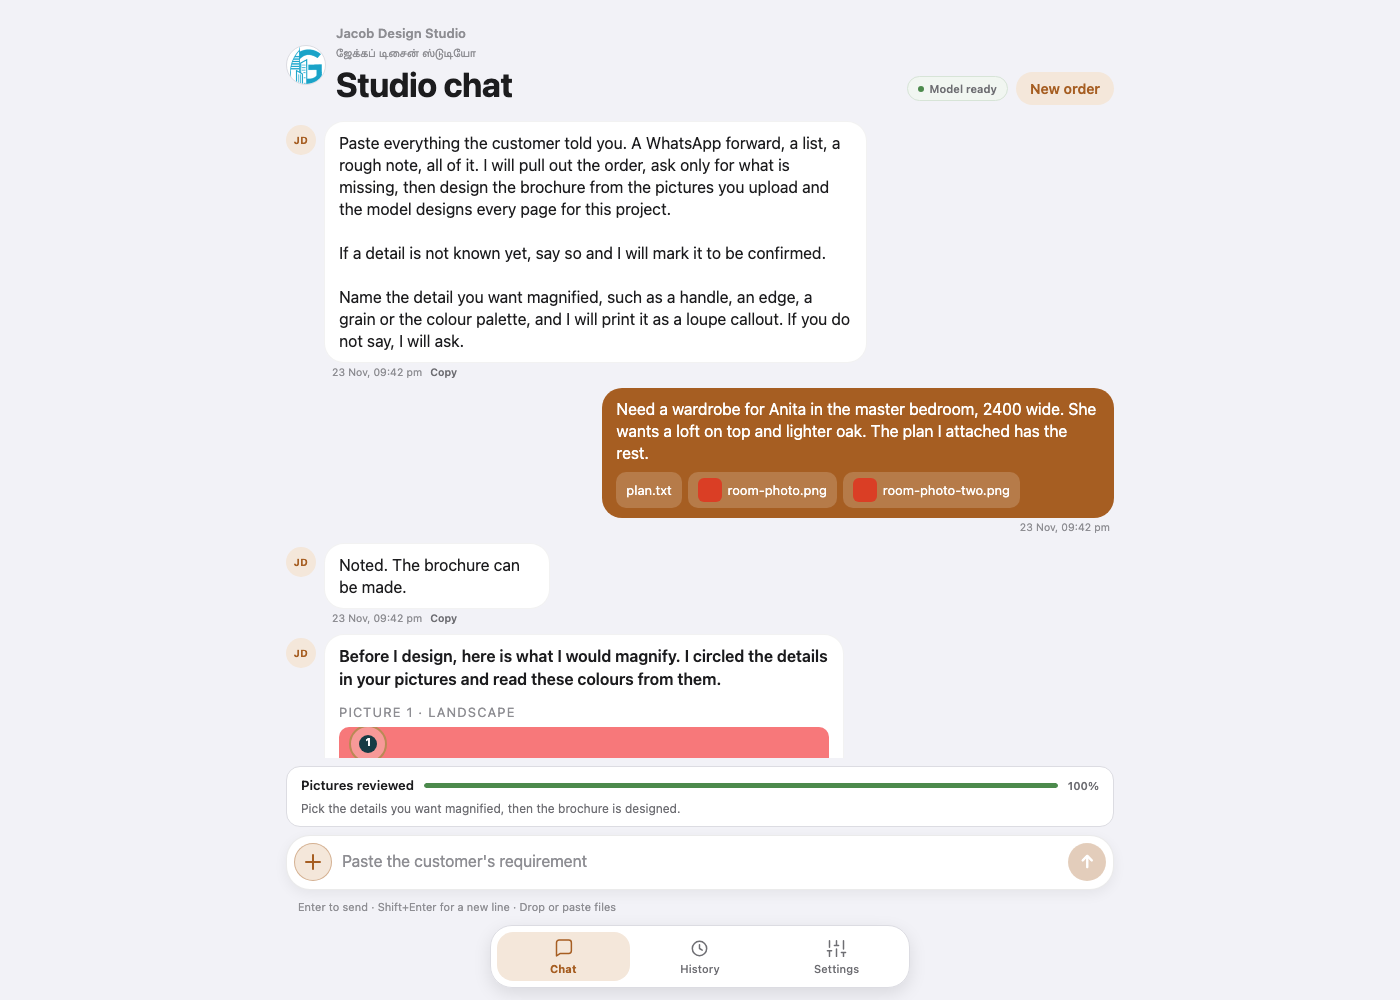
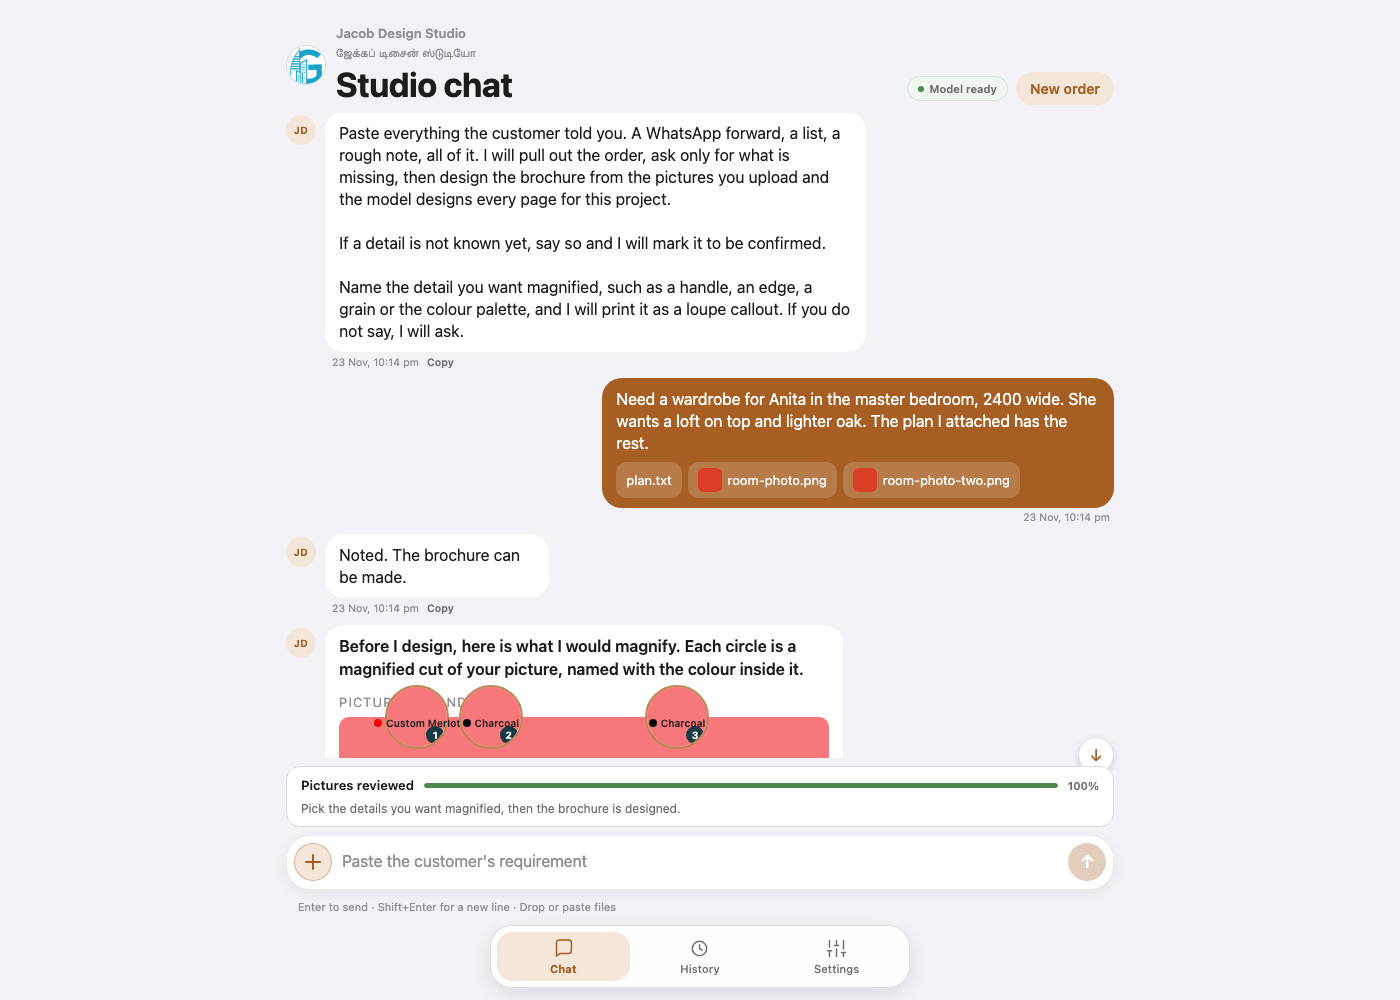
Magnified circles name the colour inside them

Changed region(s): [[0.1843, 0.124, 0.6143, 0.372], [0.1843, 0.527, 0.5836, 0.775], [0.43, 0.372, 0.7986, 0.527]]

diff --git a/app/app/(tabs)/index.tsx b/app/app/(tabs)/index.tsx
@@ -722,7 +722,7 @@ export default function ChatScreen() {
                   role: 'assistant' as const,
                   kind: 'review' as const,
                   content:
-                    'Before I design, here is what I would magnify. I circled the details in your pictures and read these colours from them.',
+                    'Before I design, here is what I would magnify. Each circle is a magnified cut of your picture, named with the colour inside it.',
                   at: stamp(),
                   photos: review.photos,
                 },
@@ -795,7 +795,7 @@ export default function ChatScreen() {
                   role: 'assistant' as const,
                   kind: 'review' as const,
                   content:
-                    'Before I design, here is what I would magnify. I circled the details in your pictures and read these colours from them.',
+                    'Before I design, here is what I would magnify. Each circle is a magnified cut of your picture, named with the colour inside it.',
                   at: stamp(),
                   photos: review.photos,
                 },
@@ -1202,6 +1202,102 @@ export default function ChatScreen() {
   );
 }
 
+function ReviewPhotoCard({ photo, index }: { photo: ReviewPhoto; index: number }) {
+  const [frame, setFrame] = useState({ width: 0, height: 0 });
+  const LOUPE = 64;
+  const ZOOM = 3.2;
+  const zoomWidth = frame.width * ZOOM;
+  const zoomHeight = frame.height * ZOOM;
+  const ready = frame.width > 0 && frame.height > 0;
+  return (
+    <View style={styles.reviewPhoto}>
+      <Text style={[text.caption, styles.reviewPhotoLabel]}>
+        {`Picture ${index + 1} · ${photo.analysis.orientation}`}
+      </Text>
+      <View
+        style={styles.reviewFrameBox}
+        onLayout={(event) => setFrame(event.nativeEvent.layout)}>
+        <View style={styles.reviewFrame}>
+          <Image
+            source={{ uri: fileUrl(photo.url) }}
+            style={styles.reviewImage}
+            resizeMode="cover"
+            accessibilityLabel={`Review picture ${index + 1}`}
+          />
+        </View>
+        {ready
+          ? photo.analysis.candidates.map((candidate, candidateIndex) => {
+              // Keep the loupe and its label inside the picture frame.
+              const cx = Math.min(84, Math.max(16, candidate.x));
+              const cy = Math.min(76, Math.max(16, candidate.y));
+              const labelTop = Math.min(cy + ((LOUPE + 8) / frame.height) * 100, 94);
+              return (
+                <View key={candidate.id}>
+                  <View
+                    testID={`review-loupe-${candidateIndex + 1}`}
+                    accessibilityLabel={`Magnify detail ${candidateIndex + 1} ${candidate.name}`}
+                    style={[
+                      styles.reviewLoupe,
+                      {
+                        width: LOUPE,
+                        height: LOUPE,
+                        marginLeft: -LOUPE / 2,
+                        marginTop: -LOUPE / 2,
+                        left: `${cx}%`,
+                        top: `${cy}%`,
+                      },
+                    ]}>
+                    <Image
+                      source={{ uri: fileUrl(photo.url) }}
+                      style={{
+                        position: 'absolute',
+                        width: zoomWidth,
+                        height: zoomHeight,
+                        left: LOUPE / 2 - (cx / 100) * zoomWidth,
+                        top: LOUPE / 2 - (cy / 100) * zoomHeight,
+                      }}
+                      resizeMode="cover"
+                    />
+                    <View style={styles.reviewLoupeNumber}>
+                      <Text style={styles.reviewLoupeNumberLabel}>{candidateIndex + 1}</Text>
+                    </View>
+                  </View>
+                  <View
+                    style={[
+                      styles.reviewLoupeLabel,
+                      { left: `${cx}%`, top: `${labelTop}%` },
+                    ]}>
+                    <View style={[styles.reviewLoupeDot, { backgroundColor: candidate.hex }]} />
+                    <Text style={styles.reviewLoupeName} numberOfLines={1}>
+                      {candidate.name}
+                    </Text>
+                  </View>
+                </View>
+              );
+            })
+          : null}
+      </View>
+      {photo.analysis.candidates.length > 0 ? (
+        <Text style={[text.caption, styles.reviewMagnifiedLine]}>
+          {`Magnified details: ${photo.analysis.candidates
+            .map((candidate, candidateIndex) => `${candidateIndex + 1} ${candidate.name}`)
+            .join(' · ')}`}
+        </Text>
+      ) : null}
+      <View style={styles.reviewPalette}>
+        {photo.analysis.palette.map((swatch) => (
+          <View key={swatch.hex} style={styles.reviewSwatch}>
+            <View style={[styles.reviewChip, { backgroundColor: swatch.hex }]} />
+            <Text style={[text.caption, styles.reviewChipName]} numberOfLines={1}>
+              {swatch.name}
+            </Text>
+          </View>
+        ))}
+      </View>
+    </View>
+  );
+}
+
 function BubbleView({
   bubble,
   copied,
@@ -1221,40 +1317,7 @@ function BubbleView({
           <View style={[styles.bubble, styles.bubbleAssistant, styles.reviewBubble]}>
             <Text style={[text.body, styles.reviewTitle]}>{bubble.content}</Text>
             {bubble.photos.map((photo, photoIndex) => (
-              <View key={photo.url} style={styles.reviewPhoto}>
-                <Text style={[text.caption, styles.reviewPhotoLabel]}>
-                  {`Picture ${photoIndex + 1} · ${photo.analysis.orientation}`}
-                </Text>
-                <View style={styles.reviewFrame}>
-                  <Image
-                    source={{ uri: fileUrl(photo.url) }}
-                    style={styles.reviewImage}
-                    resizeMode="cover"
-                    accessibilityLabel={`Review picture ${photoIndex + 1}`}
-                  />
-                  {photo.analysis.candidates.map((candidate, index) => (
-                    <View
-                      key={candidate.id}
-                      style={[
-                        styles.reviewCircle,
-                        { left: `${candidate.x}%`, top: `${candidate.y}%` },
-                      ]}
-                      accessibilityLabel={`Magnify choice ${index + 1}`}>
-                      <Text style={styles.reviewCircleLabel}>{index + 1}</Text>
-                    </View>
-                  ))}
-                </View>
-                <View style={styles.reviewPalette}>
-                  {photo.analysis.palette.map((swatch) => (
-                    <View key={swatch.hex} style={styles.reviewSwatch}>
-                      <View style={[styles.reviewChip, { backgroundColor: swatch.hex }]} />
-                      <Text style={[text.caption, styles.reviewChipName]} numberOfLines={1}>
-                        {swatch.name}
-                      </Text>
-                    </View>
-                  ))}
-                </View>
-              </View>
+              <ReviewPhotoCard key={photo.url} photo={photo} index={photoIndex} />
             ))}
             <Text style={[text.caption, styles.reviewHint]}>
               Reply with the numbers you want magnified, name a detail, or say you choose.
@@ -2274,10 +2337,17 @@ const styles = StyleSheet.create({
     textTransform: 'uppercase',
     letterSpacing: 1.2,
   },
-  reviewFrame: {
+  reviewFrameBox: {
     position: 'relative',
     width: '100%',
     aspectRatio: 16 / 9,
+  },
+  reviewFrame: {
+    position: 'absolute',
+    left: 0,
+    top: 0,
+    right: 0,
+    bottom: 0,
     borderRadius: 10,
     overflow: 'hidden',
     backgroundColor: colors.fill,
@@ -2285,6 +2355,55 @@ const styles = StyleSheet.create({
   reviewImage: {
     width: '100%',
     height: '100%',
+  },
+  reviewLoupe: {
+    position: 'absolute',
+    borderRadius: 32,
+    overflow: 'hidden',
+    borderWidth: 2,
+    borderColor: '#B98A55',
+    backgroundColor: colors.fill,
+  },
+  reviewLoupeNumber: {
+    position: 'absolute',
+    right: 3,
+    bottom: 3,
+    width: 18,
+    height: 18,
+    borderRadius: 9,
+    backgroundColor: '#173B44',
+    alignItems: 'center',
+    justifyContent: 'center',
+  },
+  reviewLoupeNumberLabel: {
+    color: colors.surface,
+    fontSize: 10,
+    fontWeight: '700',
+  },
+  reviewLoupeLabel: {
+    position: 'absolute',
+    marginLeft: -48,
+    width: 96,
+    flexDirection: 'row',
+    alignItems: 'center',
+    justifyContent: 'center',
+    gap: 4,
+  },
+  reviewLoupeDot: {
+    width: 8,
+    height: 8,
+    borderRadius: 4,
+    borderWidth: StyleSheet.hairlineWidth,
+    borderColor: colors.hairInset,
+  },
+  reviewLoupeName: {
+    fontSize: 10,
+    color: colors.ink,
+    fontWeight: '600',
+  },
+  reviewMagnifiedLine: {
+    color: colors.ink,
+    letterSpacing: 0.4,
   },
   reviewCircle: {
     position: 'absolute',

diff --git a/app/lib/api.ts b/app/lib/api.ts
@@ -166,6 +166,9 @@ export interface ReviewCandidate {
   /** Circle centre as a percentage of the photograph. */
   x: number;
   y: number;
+  /** The colour inside the magnified area, named like a paint chip. */
+  hex: string;
+  name: string;
 }
 
 export interface ReviewPhoto {

diff --git a/README.md b/README.md
@@ -27,7 +27,7 @@ The photographs are the source, not decoration. The brochure is a colour study, 
 - **Every uploaded picture is printed.** A document that leaves a picture out is rejected and asked for again.
 - **The palette comes from the pictures and gets showroom names.** The engine decodes each photograph, then names its four dominant colours the way a paint card does: Warm Ivory, Oat, Sand Beige, Walnut. The brochure prints colour option strips, four named swatch chips with their hex values, so the pages mirror the project instead of an invented palette.
 - **The pages look like the project.** Type, photographs and colour are composed to belong with the pictures supplied.
-- **The picture review.** As soon as pictures are attached the studio analyses them, circles likely details, shows the named palette, and asks what to magnify before any brochure exists.
+- **The picture review.** As soon as pictures are attached the studio analyses them and shows the picture back with magnified circles on the details worth seeing. Each circle is an enlarged cut of that same picture (using the published picture, no phone screenshot) and is named with the colour inside it, so the client reads Oat, Walnut, Greige at a glance. The palette is printed under the picture, and the studio asks what to magnify before any brochure exists.
 
 ![The picture review: circled details and the palette](docs/screenshots/picture-review.png)
 
